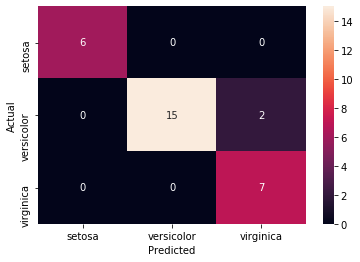
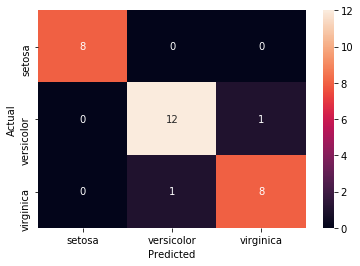
tutorial 2 updates

diff --git a/tutorials/tutorial02.md b/tutorials/tutorial02.md
@@ -31,8 +31,24 @@ Additionally, we will want to use `scikit-learn` to apply the KNN algorithm on o
 We'll be able to use `scikit-learn` to help us with both our classification problems and our regression problems. 
 
 ## K-Nearest Neighbors Classification
+You can view the code for this tutorial [here](https://colab.research.google.com/drive/1sl_fXL3w_peGqUjOTp-sx__KrdkZBHoM#scrollTo=HPTRiWoHJLRh).
+
 ### Importing Our Data Set
-For examples of KNN, the [iris data set](https://archive.ics.uci.edu/ml/datasets/Iris) from the University of California, Irvine is often used. Let's import the data set as a `pandas` dataframe:
+For examples of KNN, the [iris data set](https://archive.ics.uci.edu/ml/datasets/Iris) from the University of California, Irvine is often used. 
+
+In this tutorial, we will be attempting to classify types of irises using the following four attributes:
+
+1. Sepal length
+2. Sepal width
+3. Petal length
+4. Petal width
+
+There are three types of irises: 
+1. Iris Setosa
+2. Iris Versicolor
+3. Iris Virginica
+
+Let's import the data set as a `pandas` dataframe:
 
 ```python
 df = pd.read_csv("https://archive.ics.uci.edu/ml/machine-learning-databases/iris/iris.data")
@@ -137,34 +153,34 @@ print("actual: ", y_test)
 |:---------------:|:---------------:|
 |  Iris-virgnica  |  Iris-virginica |
 | Iris-versicolor | Iris-versicolor |
+|  Iris-virginica |  Iris-virginica|
+|   **Iris-versicolor**  | **Iris-virginica**|
+| Iris-versicolor | Iris-versicolor |
+| Iris-versicolor | Iris-versicolor |
+| Iris-setosa | Iris-setosa|
+|  Iris-versicolor |  Iris-versicolor |
+| Iris-versicolor | Iris-versicolor |
+| Iris-virginica | Iris-virginica |
+| Iris-versicolor | Iris-versicolor |
+| Iris-versicolor | Iris-versicolor |
+|   Iris-veriscolor  |   Iris-versicolor   |
+|  Iris-setosa | Iris-setosa |
+|   Iris-setosa   |   Iris-setosa   |
+| Iris-setosa| Iris-setosa |
+| Iris-versicolor | Iris-versicolor |
 |  Iris-virginica |  Iris-virginica |
 |   Iris-setosa   |   Iris-setosa   |
-| Iris-versicolor | Iris-versicolor |
-| Iris-versicolor | Iris-versicolor |
-| Iris-versicolor | Iris-versicolor |
+|  Iris-setosa |  Iris-setosa |
+| Iris-setosa | Iris-setosa |
+| Iris-virginica | Iris-virginica|
+|   Iris-versicolor   |   Iris-versicolor  |
+| Iris-setosa| Iris-setosa |
+| **Iris-virginica** | **Iris-versicolor** |
 |  Iris-virginica |  Iris-virginica |
-| Iris-versicolor | Iris-versicolor |
-| Iris-versicolor | Iris-versicolor |
-| Iris-versicolor | Iris-versicolor |
-| Iris-versicolor | Iris-versicolor |
-|   Iris-setosa   |   Iris-setosa   |
-|  Iris-virginica | Iris-versicolor |
-|   Iris-setosa   |   Iris-setosa   |
-| Iris-versicolor | Iris-versicolor |
-| Iris-versicolor | Iris-versicolor |
-|  Iris-virginica |  Iris-virginica |
-|   Iris-setosa   |   Iris-setosa   |
-|  Iris-virginica |  Iris-virginica |
-| Iris-versicolor | Iris-versicolor |
-| Iris-versicolor | Iris-versicolor |
-|   Iris-setosa   |   Iris-setosa   |
-| Iris-versicolor | Iris-versicolor |
-| Iris-versicolor | Iris-versicolor |
-|  Iris-virginica |  Iris-virginica |
-|  Iris-virginica |  Iris-virginica |
-|   Iris-setosa   |   Iris-setosa   |
-| Iris-versicolor | Iris-versicolor |
-| Iris-versicolor | Iris-versicolor |
+|  Iris-versicolor|  Iris-versicolor |
+|   Iris-versicolor  |   Iris-versicolor   |
+| Iris-virginica| Iris-virginica |
+| Iris-virginica | Iris-virginica |
 
 Because the way we split our data will be different each time, you may get different results, but the above table is shown just to give you an idea of how well our classification algorithm works. 
 
@@ -181,12 +197,13 @@ We then get the following classification report:
 
 |                     | **precision** | **recall** | **f1-score** | **support** |
 |---------------------|:-------------:|:----------:|:------------:|:-----------:|
-|     **Iris-setosa** |      1.00     |    1.00    |     1.00     |      6      |
-| **Iris-versicolor** |      1.00     |    0.94    |     0.97     |      17     |
-|  **Iris-virginica** |      0.88     |    1.00    |     0.93     |      7      |
+|     **Iris-setosa** |      1.00     |    1.00    |     1.00     |      8     |
+| **Iris-versicolor** |      0.92    |    0.92   |     0.92     |      13    |
+|  **Iris-virginica** |      0.89     |    0.89    |     0.89     |      9      |
+<!-- ||||||
 |        **accuracy** |               |    0.97    |      30      |             |
 |       **macro avg** |      0.96     |    0.98    |     0.97     |      30     |
-|    **weighted avg** |      0.97     |    0.97    |     0.97     |      30     |
+|    **weighted avg** |      0.97     |    0.97    |     0.97     |      30     | -->
 
 #### Visualizing our Predictions
 
@@ -219,10 +236,11 @@ Using the above code, we get the following heat map:
 Using this heat map, we can make the following observations:
 
 1. All setosa flowers are correctly classified by our model. 
-2. 15 versicolor flowers are correclty classified, and two versicolor flowers are incorrectly classified as virginica flowers.
-3. All virginica flowers are correctly classified by our model.
+2. 12 versicolor flowers are correclty classified, and one versicolor flower is incorrectly classified as a virginica flower.
+3. 8 virginica flowers are correctly classified, and one virginica flower is incorrectly classified as a versicolor flower.
 
-Again, your results will be slightly depending on how you split your training and test data.
+Again, your results will be slightly depending on how you split your training and test data.  
+
 ## K-Nearest Neighbors Regression
 
 This section is under construction.
